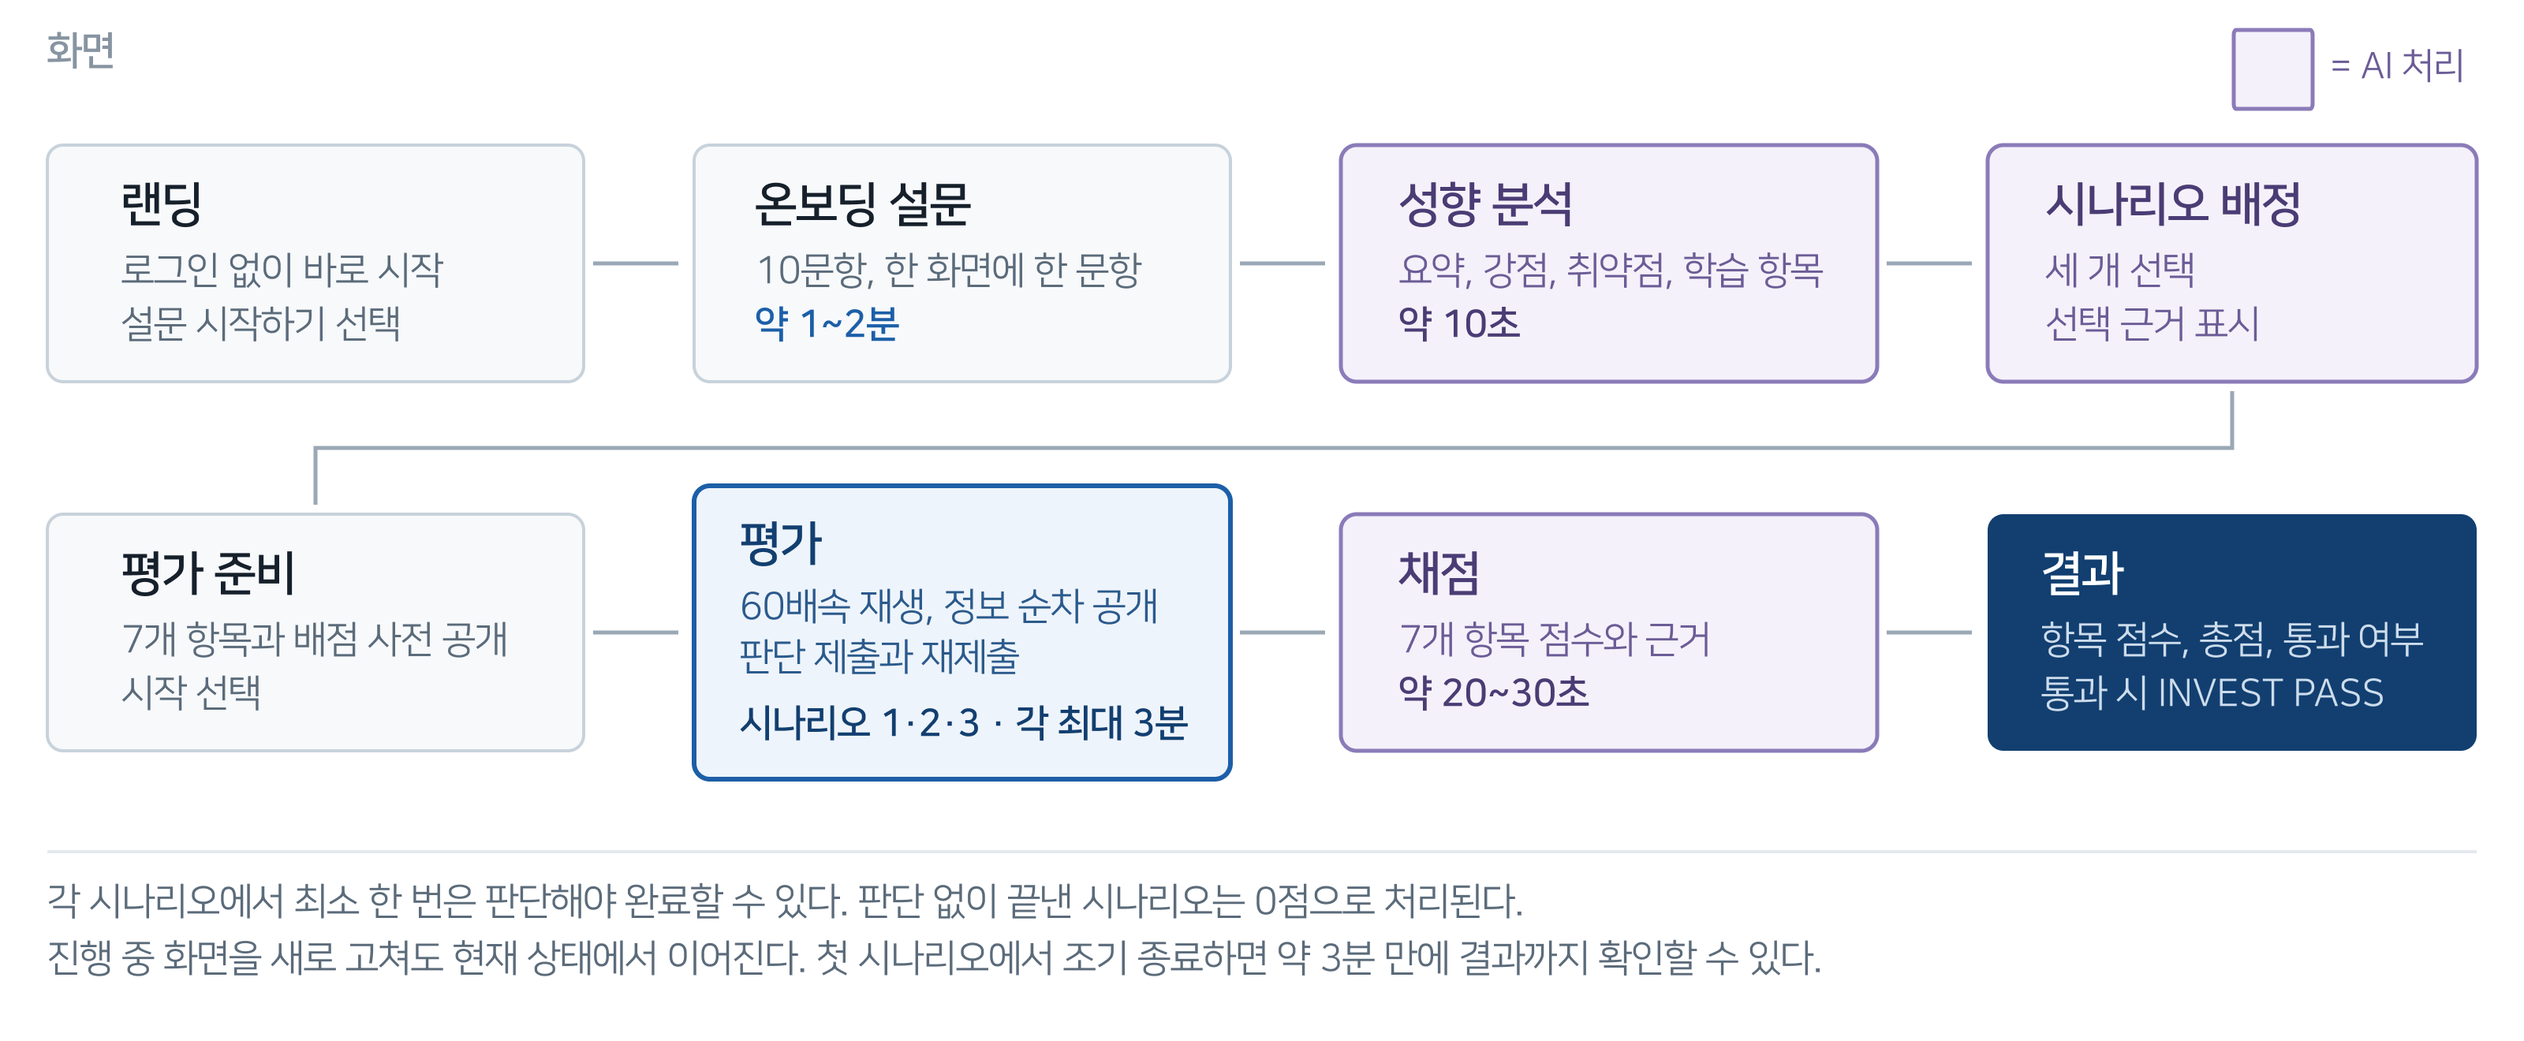
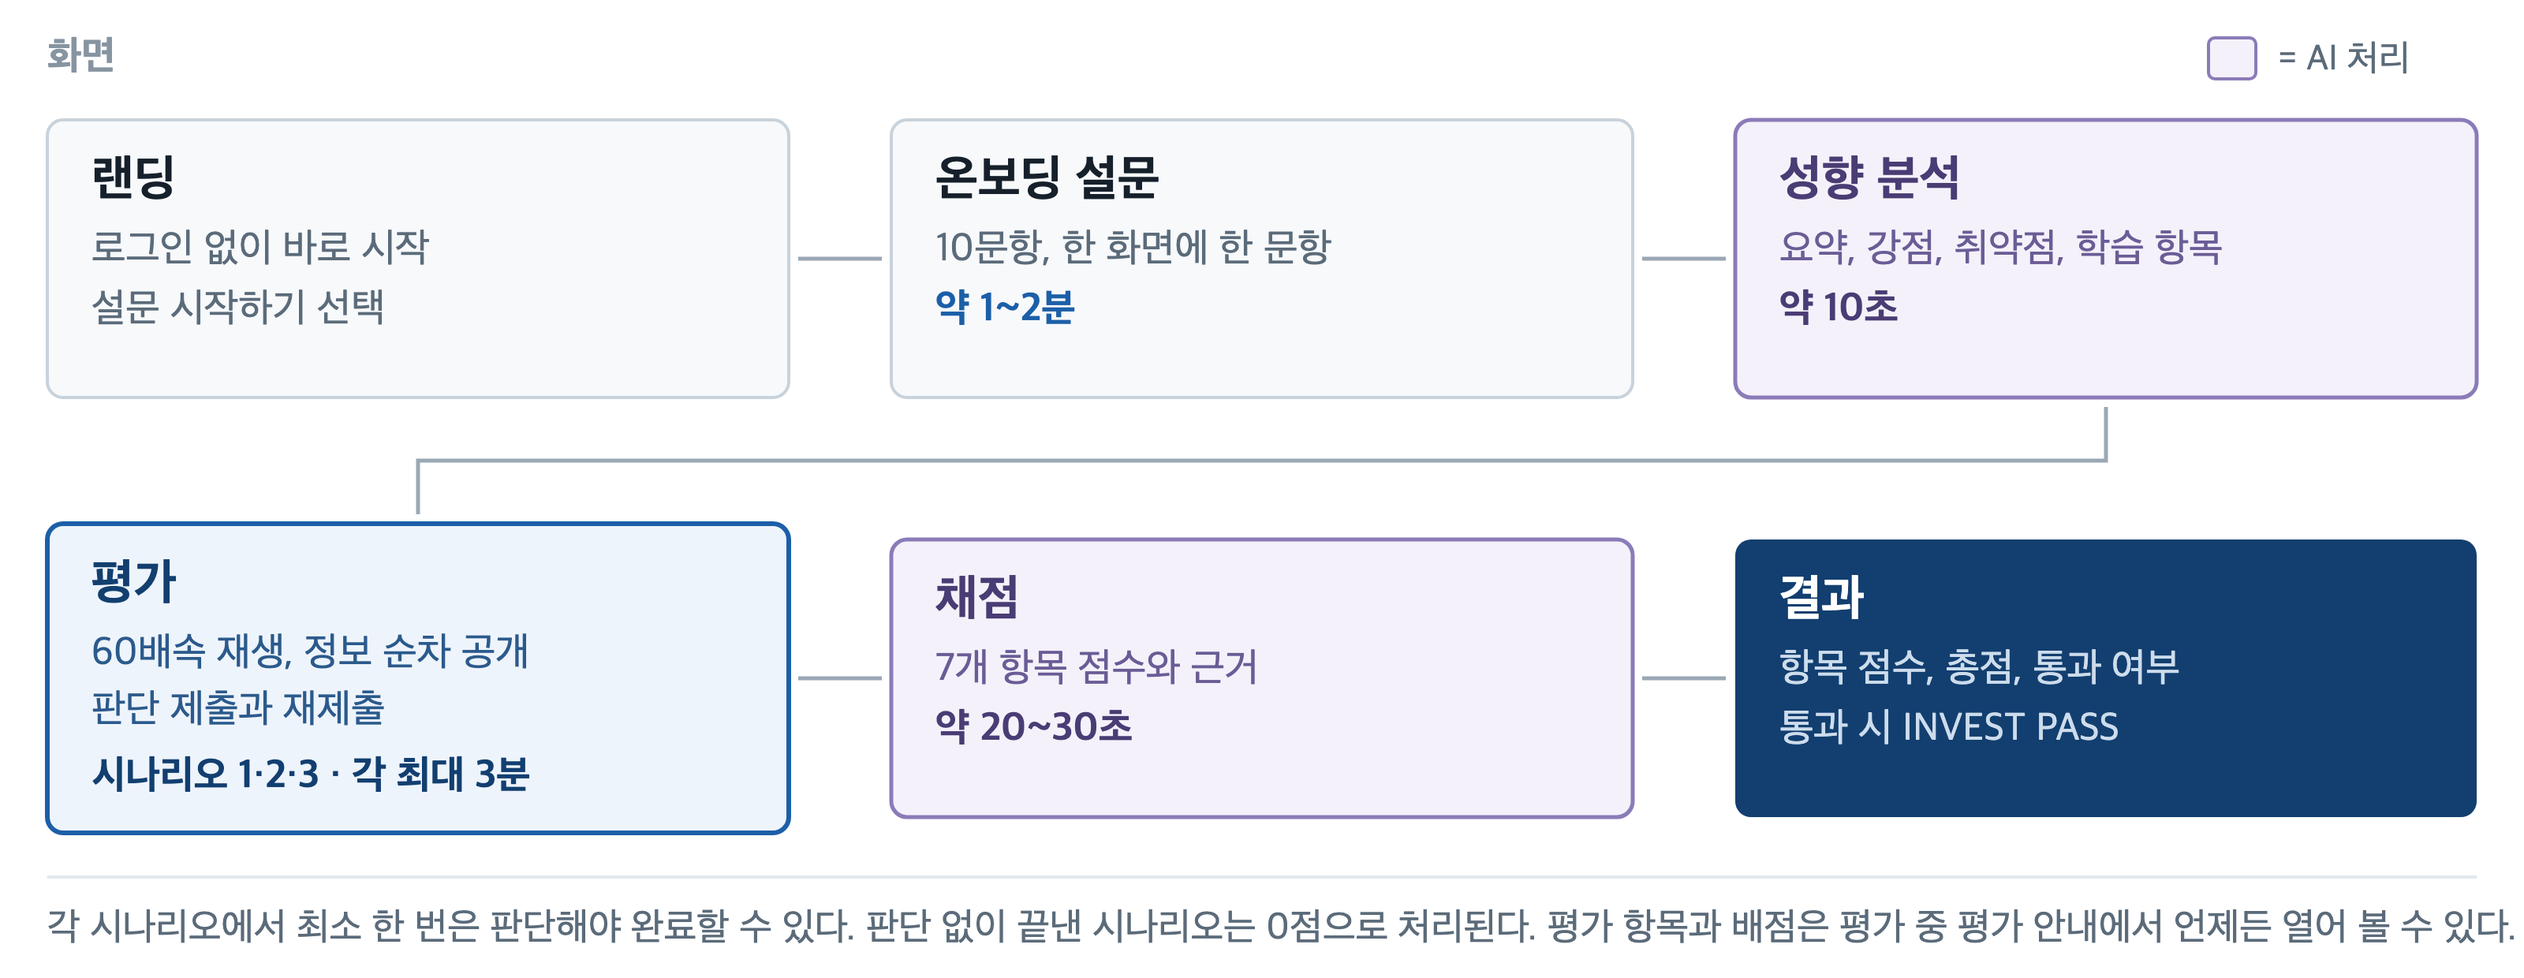
docs: 기능명세서 피드백 반영 — 미구현 기능 삭제와 AI 표기
구현 담당 피드백에 따라 실제 동작과 어긋난 부분을 정리했다.

삭제
- F-17 새로고침 복구: 진행 중 새로고침하면 초기화된다. 5.2 확인 절차의
  새로고침 단계도 함께 빼고, 5.5 한계에 '진행 중 새로고침하면 진행
  상태가 유지되지 않는다'를 새로 넣었다
- F-23 저장 정보 초기화: 리셋 버튼이 제거되어 5.4 결과 보관 설명에서도
  리셋 언급을 뺐다

수정
- F-04 AI 시나리오 배정: 배정 근거를 보여주는 화면이 없어 서버 처리로
  표기하고 근거 표시 문구를 뺐다
- F-05: 세 시나리오 사전 요약 화면이 없어 삭제하고, 채점 기준 공개는
  평가 안내 화면에서 제공하는 것으로 바로잡았다
- 표 1-1에서 평가 준비 행을 채점 기준 안내로, 진행 제어의 새로고침
  복구를 삭제

AI 표기
- 표 1-1의 과정 평가를 AI 과정 평가로, F-16도 같게 맞췄다

연쇄 반영
- 기능 23개에서 20개로 재번호, 3번 흐름 10단계에서 9단계로,
  5.2 확인 절차 13단계에서 11단계로 재번호
- 도식 3-1을 화면 여섯 개 기준으로 다시 그렸다. 시나리오 배정과
  평가 준비 화면을 빼고 랜딩, 설문, 성향 분석, 평가, 채점, 결과로 구성

Claude-Session: https://claude.ai/code/session_01ATauFWCuXcE29ET7nbgNTo

diff --git a/07-submission/02-feature-spec-final.md b/07-submission/02-feature-spec-final.md
@@ -18,13 +18,13 @@
 |---|---|
 | 온보딩 | 투자 성향 설문 10문항, 한 화면에 한 문항 |
 | AI 성향 분석 | 응답을 바탕으로 성향 요약, 강점, 취약점, 우선 학습 항목 생성 |
-| AI 시나리오 배정 | 검수된 카탈로그에서 시나리오 세 개를 고르고 배정 근거 제시 |
-| 평가 준비 | 배정된 세 시나리오 안내, 평가 항목과 배점 사전 공개 |
+| AI 시나리오 배정 | 검수된 카탈로그에서 사용자에게 맞는 시나리오 세 개 선택 |
+| 채점 기준 안내 | 평가 항목과 배점을 시작 전에 공개 |
 | 시험 진행 | 독립 시나리오 세 개, 시나리오당 최대 3분, 60배속 시장 재생 |
 | 시장 화면 | 정규화 캔들, 거래량, 시나리오 설명, 가명 처리된 뉴스와 공시, 커뮤니티 피드 |
 | 판단 기록 | UP/DOWN 방향, 확신도, 판단 근거 태그, 직접 입력, 정보 열람 기록 |
-| 진행 제어 | 시나리오 조기 완료, 시험 조기 종료, 시간 만료 자동 종료, 새로고침 복구 |
-| 과정 평가 | 7개 항목별 점수와 근거 생성, 총점과 통과 여부 판정 |
+| 진행 제어 | 시나리오 조기 완료, 시험 조기 종료, 시간 만료 자동 종료 |
+| AI 과정 평가 | 7개 항목별 점수와 근거 생성, 총점과 통과 여부 판정 |
 | 결과 | 항목별 점수와 평가 근거, 개선 방향, 통과 시 INVEST PASS |
 
 표 1-2. 이번 MVP에 넣지 않은 것
@@ -48,32 +48,29 @@
 | F-01 | 익명 세션 시작 | 회원가입과 로그인 없이 서비스 주소로 접속하면 바로 시작할 수 있다 | 랜딩 |
 | F-02 | 투자 성향 설문 | 투자 경험, 위험 선호, 레버리지 이해도, 정보 검증 습관 등 10문항에 답한다. 한 화면에 한 문항씩 진행률과 함께 표시한다 | 온보딩 설문 |
 | F-03 | AI 성향 분석 | 설문 응답을 분석해 성향 요약, 강점, 취약점, 우선 학습 항목을 생성해 보여준다 | 성향 분석 |
-| F-04 | AI 시나리오 배정 | 검수된 카탈로그에서 사용자에게 맞는 시나리오 세 개를 고르고, 시나리오마다 배정 근거를 함께 보여준다 | 시나리오 배정 |
-| F-05 | 시나리오 요약 안내 | 평가를 시작하기 직전에 배정된 세 시장 상황을 다시 요약해 보여준다 | 평가 준비 |
-| F-06 | 채점 기준 사전 공개 | 과정 평가 7개 항목과 배점을 시작 전에 공개해, 수익률이 아니라 판단 과정이 평가된다는 것을 알고 시작하게 한다 | 평가 준비, 평가 안내 |
-| F-07 | 가속 시장 재생 | 시장을 60배속으로 재생한다. 시나리오당 제한 시간은 최대 3분이다 | 평가 |
-| F-08 | 시장 정보 표시 | 정규화된 캔들과 거래량, 시나리오 설명을 보여준다 | 평가 |
-| F-09 | 정보 피드 | 가명 처리된 뉴스, 공시, 커뮤니티 글을 출처별로 구분해 시간순으로 공개한다 | 평가 |
-| F-10 | 정보 열람 기록 | 목록에 노출된 사실과 상세 본문을 실제로 연 사실을 구분해 기록한다 | 평가 |
-| F-11 | 판단 제출 | UP 또는 DOWN을 고르고 확신도와 판단 근거 태그를 함께 남긴다. 직접 입력도 덧붙일 수 있다 | 판단 입력 |
-| F-12 | 판단 재제출과 누적 | 제한 시간 동안 다시 제출할 수 있다. 이전 응답을 덮어쓰지 않고 시간순 판단 이벤트로 쌓는다 | 평가 |
-| F-13 | 행동 타임라인 | 판단과 정보 열람을 하나의 순번으로 합쳐 행동 순서를 그대로 복원해 보여준다 | 평가, 결과 |
-| F-14 | 시나리오 조기 완료 | 판단을 한 번 이상 남긴 뒤 제한 시간 전에 다음 시나리오로 넘어간다 | 평가 |
-| F-15 | 시험 조기 종료 | 남은 시나리오가 있어도 시험을 끝낼 수 있다 | 평가 |
-| F-16 | 시간 만료 자동 종료 | 제한 시간이 지나면 해당 시나리오를 닫고 다음으로 넘어간다. 세 시나리오가 끝나면 시험을 자동으로 종료한다 | 평가 |
-| F-17 | 새로고침 복구 | 진행 중 화면을 새로 고쳐도 현재 상태에서 이어서 참여한다 | 평가 |
-| F-18 | 과정 평가 | 제출된 판단 전체를 7개 항목으로 채점하고 항목마다 점수와 평가 근거를 생성한다 | (서버) |
-| F-19 | 총점과 통과 판정 | 시나리오별 점수의 평균을 내고 70점 기준으로 통과 여부를 판정한다. 미응답 시나리오는 0점으로 처리한다 | (서버) |
-| F-20 | 결과 보고서 | 시나리오별 항목 점수와 평가 근거, 요약, 개선 방향을 자연어로 제공한다 | 결과 |
-| F-21 | 판단 기록 확인 | 제출한 판단과 열람 이력을 시간순으로 확인한다 | 결과 |
-| F-22 | INVEST PASS 발급 | 통과 시 평가 입력 해시에 묶인 교육 인증을 발급한다. 공인 금융 자격이 아님을 함께 표시한다 | 결과 |
-| F-23 | 저장 정보 초기화 | 브라우저에 저장된 진행 정보를 사용자가 직접 지운다 | 랜딩 |
+| F-04 | AI 시나리오 배정 | 설문 응답을 바탕으로 검수된 카탈로그에서 사용자에게 맞는 시나리오 세 개를 고른다 | (서버) |
+| F-05 | 채점 기준 사전 공개 | 과정 평가 7개 항목과 배점을 평가 중 언제든 열어 볼 수 있게 공개해, 수익률이 아니라 판단 과정이 평가된다는 것을 알고 진행하게 한다 | 평가 안내 |
+| F-06 | 가속 시장 재생 | 시장을 60배속으로 재생한다. 시나리오당 제한 시간은 최대 3분이다 | 평가 |
+| F-07 | 시장 정보 표시 | 정규화된 캔들과 거래량, 시나리오 설명을 보여준다 | 평가 |
+| F-08 | 정보 피드 | 가명 처리된 뉴스, 공시, 커뮤니티 글을 출처별로 구분해 시간순으로 공개한다 | 평가 |
+| F-09 | 정보 열람 기록 | 목록에 노출된 사실과 상세 본문을 실제로 연 사실을 구분해 기록한다 | 평가 |
+| F-10 | 판단 제출 | UP 또는 DOWN을 고르고 확신도와 판단 근거 태그를 함께 남긴다. 직접 입력도 덧붙일 수 있다 | 판단 입력 |
+| F-11 | 판단 재제출과 누적 | 제한 시간 동안 다시 제출할 수 있다. 이전 응답을 덮어쓰지 않고 시간순 판단 이벤트로 쌓는다 | 평가 |
+| F-12 | 행동 타임라인 | 판단과 정보 열람을 하나의 순번으로 합쳐 행동 순서를 그대로 복원해 보여준다 | 평가, 결과 |
+| F-13 | 시나리오 조기 완료 | 판단을 한 번 이상 남긴 뒤 제한 시간 전에 다음 시나리오로 넘어간다 | 평가 |
+| F-14 | 시험 조기 종료 | 남은 시나리오가 있어도 시험을 끝낼 수 있다 | 평가 |
+| F-15 | 시간 만료 자동 종료 | 제한 시간이 지나면 해당 시나리오를 닫고 다음으로 넘어간다. 세 시나리오가 끝나면 시험을 자동으로 종료한다 | 평가 |
+| F-16 | AI 과정 평가 | 제출된 판단 전체를 7개 항목으로 채점하고 항목마다 점수와 평가 근거를 생성한다 | (서버) |
+| F-17 | 총점과 통과 판정 | 시나리오별 점수의 평균을 내고 70점 기준으로 통과 여부를 판정한다. 미응답 시나리오는 0점으로 처리한다 | (서버) |
+| F-18 | 결과 보고서 | 시나리오별 항목 점수와 평가 근거, 요약, 개선 방향을 자연어로 제공한다 | 결과 |
+| F-19 | 판단 기록 확인 | 제출한 판단과 열람 이력을 시간순으로 확인한다 | 결과 |
+| F-20 | INVEST PASS 발급 | 통과 시 평가 입력 해시에 묶인 교육 인증을 발급한다. 공인 금융 자격이 아님을 함께 표시한다 | 결과 |
 
 화면 2-1. 평가 화면
 
 ![문항 진행 상태와 남은 시간, 시나리오 설명, 60배속 캔들, 확신도와 판단 근거 입력이 한 화면에 있다](figures/shot-1-assessment.png)
 
-한 화면에서 F-05부터 F-16까지가 함께 동작한다. 상단에 현재 문항과 남은 시간, 문항 완료와 시험 종료가 있고, 가운데에 시나리오 설명과 60배속으로 재생되는 캔들이, 오른쪽에 확신도와 판단 근거 입력이 놓인다.
+한 화면에서 F-06부터 F-15까지가 함께 동작한다. 상단에 현재 문항과 남은 시간, 문항 완료와 시험 종료가 있고, 가운데에 시나리오 설명과 60배속으로 재생되는 캔들이, 오른쪽에 확신도와 판단 근거 입력이 놓인다.
 
 화면 2-2. 정보 피드와 판단 입력
 
@@ -89,7 +86,7 @@
 
 도식 3-1. 화면 전환 흐름
 
-![랜딩부터 결과까지 일곱 화면의 전환 흐름과 단계별 소요 시간](figures/fig-4-screen-flow.png)
+![랜딩부터 결과까지의 화면 전환 흐름과 단계별 소요 시간](figures/fig-4-screen-flow.png)
 
 표 3-1. 화면 전환 순서
 
@@ -97,15 +94,13 @@
 |---|---|---|---|
 | 1 | 랜딩 | 설문 시작하기 선택 | 온보딩 설문으로 이동 |
 | 2 | 온보딩 설문 | 10문항에 순서대로 응답 | 한 화면에 한 문항, 진행률 표시 |
-| 3 | 성향 분석 | 분석 결과 확인 | 성향 요약과 강점, 취약점, 우선 학습 항목이 표시된다 (약 10초 소요) |
-| 4 | 시나리오 배정 | 배정 결과 확인 | 시나리오 세 개와 각각의 배정 근거가 표시된다 |
-| 5 | 평가 준비 | 평가 항목과 배점 확인 후 시작 | 첫 시나리오의 3분 타이머 시작 |
-| 6 | 평가 · 시나리오 1 | 캔들과 정보 피드 확인, 필요한 뉴스 상세 열람 | 시장이 60배속으로 진행되고 정보가 시간순으로 추가 공개된다 |
-| 7 | 판단 입력 | UP 또는 DOWN 선택, 확신도와 근거 태그 입력 후 제출 | 판단 이벤트로 기록된다. 필요하면 다시 제출한다 |
-| 8 | 평가 · 시나리오 1 | 시나리오 완료 선택 또는 시간 만료 대기 | 다음 시나리오로 이동 |
-| 9 | 평가 · 시나리오 2, 3 | 6~8을 같은 방식으로 반복 | 세 시나리오가 끝나면 자동 마감 |
-| 10 | 채점 | 대기 | 판단 전체가 서버로 전송되어 채점된다 (약 20~30초 소요) |
-| 11 | 결과 | 결과 확인 | 시나리오별 항목 점수와 평가 근거, 총점, 통과 여부가 표시된다. 통과 시 INVEST PASS가 함께 표시된다 |
+| 3 | 성향 분석 | 분석 결과 확인 후 평가 진행 선택 | 성향 요약과 강점, 취약점, 우선 학습 항목이 표시된다 (약 10초 소요). 이어서 첫 시나리오의 3분 타이머가 시작된다 |
+| 4 | 평가 · 시나리오 1 | 캔들과 정보 피드 확인, 필요한 뉴스 상세 열람 | 시장이 60배속으로 진행되고 정보가 시간순으로 추가 공개된다 |
+| 5 | 판단 입력 | UP 또는 DOWN 선택, 확신도와 근거 태그 입력 후 제출 | 판단 이벤트로 기록된다. 필요하면 다시 제출한다 |
+| 6 | 평가 · 시나리오 1 | 시나리오 완료 선택 또는 시간 만료 대기 | 다음 시나리오로 이동 |
+| 7 | 평가 · 시나리오 2, 3 | 4~6을 같은 방식으로 반복 | 세 시나리오가 끝나면 자동 마감 |
+| 8 | 채점 | 대기 | 판단 전체가 서버로 전송되어 채점된다 (약 20~30초 소요) |
+| 9 | 결과 | 결과 확인 | 시나리오별 항목 점수와 평가 근거, 총점, 통과 여부가 표시된다. 통과 시 INVEST PASS가 함께 표시된다 |
 
 표 3-2. 흐름상 유의점
 
@@ -199,16 +194,14 @@
 | 1 | 배포 URL 접속 | 랜딩 화면. 로그인 없이 바로 시작할 수 있다 |
 | 2 | 설문 시작하기 선택 후 10문항 응답 | 한 화면에 한 문항, 진행률 표시. 전 문항 응답 시 다음 단계로 이동 |
 | 3 | 성향 분석 결과 확인 | 약 10초 뒤 성향 요약과 강점, 취약점, 우선 학습 항목이 표시된다. 응답에 따라 내용이 달라진다 |
-| 4 | 시나리오 배정 확인 | 시나리오 세 개와 각각의 배정 근거가 표시된다 |
-| 5 | 평가 준비 화면 확인 | 과정 평가 7개 항목과 배점이 시작 전에 표시된다 |
-| 6 | 평가 시작 | 첫 시나리오의 3분 타이머가 시작되고 캔들이 가속 재생된다 |
-| 7 | 정보 피드 확인 | 뉴스, 공시, 커뮤니티가 출처별로 구분되어 시간순으로 추가 공개된다. 상세 열람이 가능하다 |
-| 8 | 판단 제출 | UP 또는 DOWN 선택 후 확신도와 근거 태그를 입력해 제출한다 |
-| 9 | 같은 시나리오에서 다시 제출 | 이전 판단이 지워지지 않고 두 건이 시간순으로 쌓인다 |
-| 10 | 시나리오 완료 선택 | 다음 시나리오로 이동한다 |
-| 11 | 진행 중 새로고침 | 현재 진행 상태에서 이어진다 |
-| 12 | 세 시나리오 종료 또는 시험 종료 선택 | 채점이 시작된다 |
-| 13 | 결과 화면 확인 | 약 20~30초 뒤 시나리오별 7개 항목 점수와 평가 근거, 총점, 통과 여부가 표시된다. 통과 시 INVEST PASS가 함께 표시된다 |
+| 4 | 평가 안내 열기 | 과정 평가 7개 항목과 배점이 표시된다 |
+| 5 | 평가 시작 | 첫 시나리오의 3분 타이머가 시작되고 캔들이 가속 재생된다 |
+| 6 | 정보 피드 확인 | 뉴스, 공시, 커뮤니티가 출처별로 구분되어 시간순으로 추가 공개된다. 상세 열람이 가능하다 |
+| 7 | 판단 제출 | UP 또는 DOWN 선택 후 확신도와 근거 태그를 입력해 제출한다 |
+| 8 | 같은 시나리오에서 다시 제출 | 이전 판단이 지워지지 않고 두 건이 시간순으로 쌓인다 |
+| 9 | 시나리오 완료 선택 | 다음 시나리오로 이동한다 |
+| 10 | 세 시나리오 종료 또는 시험 종료 선택 | 채점이 시작된다 |
+| 11 | 결과 화면 확인 | 약 20~30초 뒤 시나리오별 7개 항목 점수와 평가 근거, 총점, 통과 여부가 표시된다. 통과 시 INVEST PASS가 함께 표시된다 |
 
 화면 5-1. 3단계 성향 분석 결과
 
@@ -216,7 +209,7 @@
 
 설문 응답에 따라 내용이 달라진다. 화면 아래에 투자 적합성 진단이나 투자 추천이 아니라는 안내를 함께 표시한다.
 
-화면 5-2. 13단계 과정 평가 결과
+화면 5-2. 11단계 과정 평가 결과
 
 ![총점과 통과 여부, 문항별 점수, 7개 평가 항목의 점수와 평가 근거 표](figures/shot-3-result.png)
 
@@ -241,7 +234,7 @@
 | 권장 브라우저 | Google Chrome 최신 버전을 권장한다. 데스크톱과 모바일 모두 Chrome 기준으로 확인했다 |
 | 화면 | 모바일 웹 우선 설계, 데스크톱 반응형 대응 |
 | 네트워크 | 설문 제출과 채점 두 시점에 서버 통신이 필요하다. 시나리오 자료는 평가 시작 전에 한 번에 내려받으며 이후 진행은 화면에서 이루어진다 |
-| 결과 보관 | 서버는 사용자별 기록을 저장하지 않는다. 진행 정보는 접속한 브라우저에만 남으므로 다른 브라우저나 기기에서는 지난 결과를 볼 수 없고, 저장 데이터를 지우거나 리셋을 실행하면 사라진다 |
+| 결과 보관 | 서버는 사용자별 기록을 저장하지 않는다. 진행 정보는 접속한 브라우저에만 남으므로 다른 브라우저나 기기에서는 지난 결과를 볼 수 없다 |
 
 ### 5.5 MVP 단계의 한계
 
@@ -249,6 +242,7 @@
 
 | 항목 | 내용 |
 |---|---|
+| 진행 중 새로고침 | 평가가 진행 중일 때 화면을 새로 고치면 진행 상태가 유지되지 않고 처음부터 다시 시작해야 한다 |
 | 시나리오 범위 | 사전에 검수된 카탈로그로 한정된다. 사용자가 시장을 직접 만들 수 없다 |
 | 상품 범위 | 레버리지와 인버스 상품은 이번 시나리오에 포함하지 않았다. 관련 개념은 설문으로 확인한다 |
 | 주문 기능 | 매수, 매도, 비중 설정, 손절이 없다. UP과 DOWN 방향 판단만 기록한다 |
